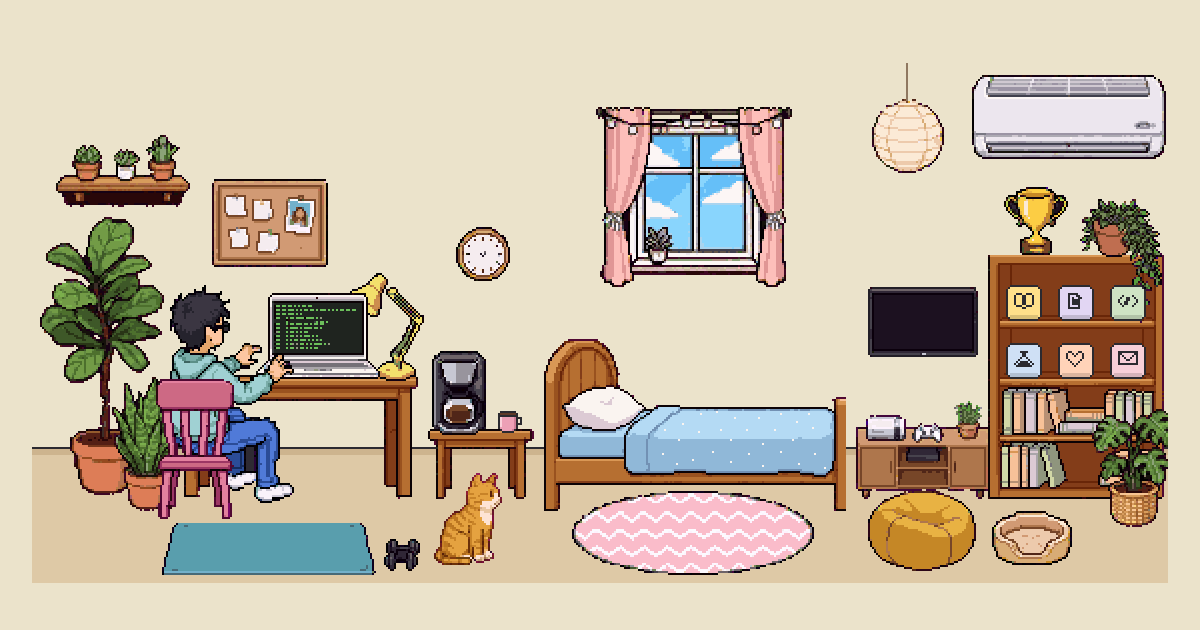
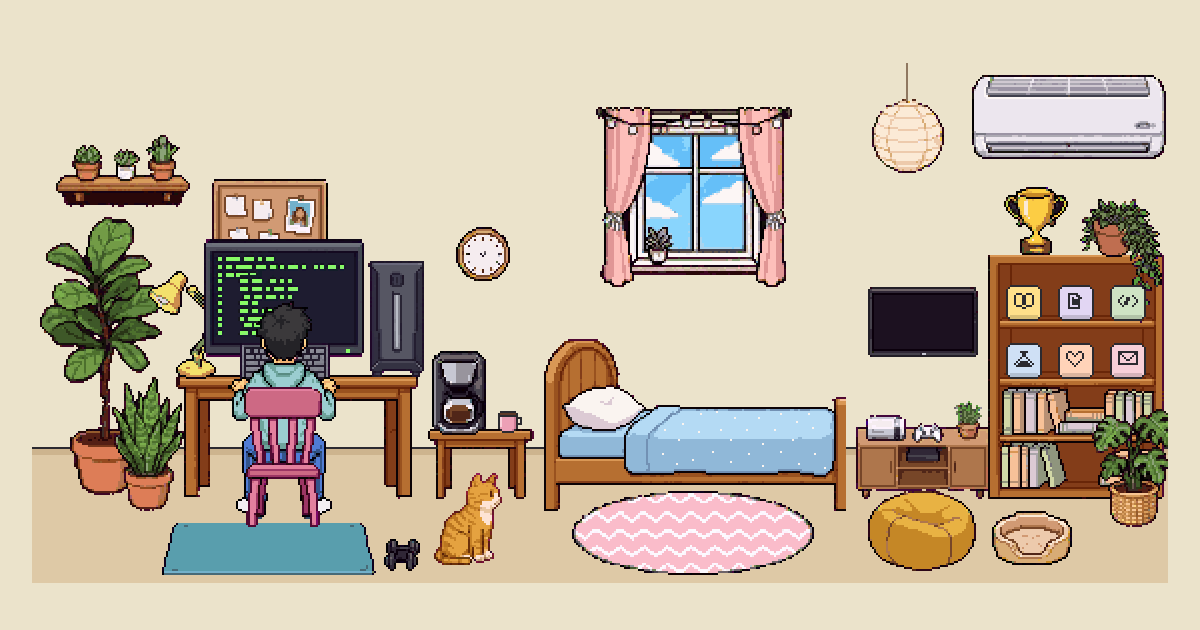
home: dev sits square at a full PC
He was twisted sideways against a chair seen from behind. Now he faces straight
into the desk with his back to us, at a big monitor with a PC tower and keyboard
in place of the laptop, with new clips for typing, turning to wave and getting
up. Phone layout rearranged around the bigger monitor.

Changed region(s): [[0.1233, 0.3619, 0.37, 0.8444]]

diff --git a/sites/home/public/game.js b/sites/home/public/game.js
@@ -99,7 +99,7 @@
     offs: {
       ac: [-464, -6], lantern: [-196, -8], window: [-278, 30], clock: [-96, 6], cork: [-80, 90], succs: [96, 86],
       shelf: [-298, 56], tv: [-322, 46], coffee: [-194, 46], desk: [-58, 178], fig: [200, 156], snake: [90, 167],
-      monstera: [-470, 64], bed: [-144, 238], bag: [-322, 58], catbed: [-326, 68], mat: [-58, 192]
+      monstera: [-392, 50], bed: [-144, 238], bag: [-268, 76], catbed: [-466, 238], mat: [-58, 192]
     }
   };
   let L = WIDE;
@@ -111,7 +111,7 @@
 
   // Lights: id, group, x, y, radius
   const LIGHTS = [
-    { id: 'desk', group: 'desk', x: 170, y: 126, r: 78, c: '255,206,130' },
+    { id: 'desk', group: 'desk', x: 72, y: 126, r: 78, c: '255,206,130' },
     { id: 'lantern', group: 'lantern', x: 438, y: 46, r: 100, c: '255,224,170' },
     { id: 'tv', group: 'tv', x: 445, y: 140, r: 64, c: '150,190,255' }
   ];
@@ -132,23 +132,24 @@
   };
   const CAT_SPOTS = {
     wide: [[40, 252], [220, 262], [400, 262], [520, 262]],
-    tall: [[210, 345], [60, 470], [244, 345], [150, 345]]
+    tall: [[230, 400], [60, 470], [150, 345], [70, 345]]
   };
 
-  // Every piece of furniture is its own sprite in room-flat.png: [x, y, w, h]
+  // Every piece of furniture is its own sprite in room-flat-b.png: [x, y, w, h]
   const KIT = {
     fig: [0, 0, 62, 139], shelf: [63, 0, 88, 122], window: [152, 0, 98, 90],
     bed: [251, 0, 151, 86], bedSleep: [0, 140, 151, 86], chair: [152, 140, 39, 70],
-    snake: [192, 140, 36, 67], desk: [229, 140, 121, 62], pothos: [351, 140, 41, 62],
-    monstera: [393, 140, 42, 59], lantern: [436, 140, 36, 55], lamp: [473, 140, 38, 54],
-    console: [0, 227, 68, 49], consolePlain: [69, 227, 68, 49], cork: [138, 227, 58, 44],
-    laptop: [197, 227, 62, 43], ac: [260, 227, 97, 42], rug: [358, 227, 121, 42],
-    coffee: [480, 227, 27, 42], bag: [0, 277, 54, 40], succs: [55, 277, 67, 36],
-    table: [123, 277, 53, 35], tv: [177, 277, 55, 35], trophy: [233, 277, 32, 34],
-    clock: [266, 277, 27, 27], catbed: [294, 277, 40, 27], mat: [335, 277, 108, 26],
-    icon0: [444, 277, 18, 18], icon1: [463, 277, 18, 18], icon2: [482, 277, 18, 18],
-    icon3: [0, 318, 18, 18], icon4: [19, 318, 18, 18], icon5: [38, 318, 18, 18],
-    dumbbells: [57, 318, 18, 16], mug: [76, 318, 14, 11]
+    monitor: [192, 140, 80, 70], snake: [273, 140, 36, 67], desk: [310, 140, 121, 62],
+    pothos: [432, 140, 41, 62], monstera: [0, 227, 42, 59], tower: [43, 227, 28, 58],
+    lantern: [72, 227, 36, 55], lamp: [109, 227, 38, 54], console: [148, 227, 68, 49],
+    consolePlain: [217, 227, 68, 49], cork: [286, 227, 58, 44], ac: [345, 227, 97, 42],
+    rug: [0, 287, 121, 42], coffee: [122, 287, 27, 42], bag: [150, 287, 54, 40],
+    succs: [205, 287, 67, 36], table: [273, 287, 53, 35], tv: [327, 287, 55, 35],
+    trophy: [383, 287, 32, 34], clock: [416, 287, 27, 27], catbed: [444, 287, 40, 27],
+    mat: [0, 330, 108, 26], keyboard: [109, 330, 45, 20], icon0: [155, 330, 18, 18],
+    icon1: [174, 330, 18, 18], icon2: [193, 330, 18, 18], icon3: [212, 330, 18, 18],
+    icon4: [231, 330, 18, 18], icon5: [250, 330, 18, 18], dumbbells: [269, 330, 18, 16],
+    mug: [288, 330, 14, 11]
   };
 
   // The room, placed by hand. x, y are in the wide room; the tall room is the same
@@ -169,8 +170,10 @@
     { id: 'fig', sprite: 'fig', group: 'fig', x: 4, y: 85, base: 224 },
     { id: 'snake', sprite: 'snake', group: 'snake', x: 40, y: 165, base: 232 },
     { id: 'desk', sprite: 'desk', group: 'desk', x: 72, y: 164, base: 226 },
-    { id: 'laptop', sprite: 'laptop', group: 'desk', x: 112, y: 123, base: 226.1 },
-    { id: 'lamp', sprite: 'lamp', group: 'desk', x: 158, y: 113, base: 226.1 },
+    { id: 'lamp', sprite: 'lamp', group: 'desk', x: 58, y: 112, base: 226.1 },
+    { id: 'monitor', sprite: 'monitor', group: 'desk', x: 86, y: 96, base: 226.2 },
+    { id: 'tower', sprite: 'tower', group: 'desk', x: 168, y: 107, base: 226.2 },
+    { id: 'keyboard', sprite: 'keyboard', group: 'desk', x: 104, y: 148, base: 226.3 },
     { id: 'table', sprite: 'table', group: 'coffee', x: 198, y: 191, base: 226 },
     { id: 'coffee', sprite: 'coffee', group: 'coffee', x: 200, y: 152, base: 226.1 },
     { id: 'mug', sprite: 'mug', group: 'coffee', x: 232, y: 182, base: 226.1 },
@@ -199,7 +202,7 @@
 
   // The chair is its own sprite: it slides out when he gets up and back when he sits
   const chair = { t: 0, to: 0, delay: 0 };
-  const chairOut = () => (L.tall ? [0, 8] : [-14, 6]);
+  const chairOut = () => [0, 8];
 
   function moveChair(to, delay) {
     chair.to = to;
@@ -216,7 +219,7 @@
   }
 
   function drawChair() {
-    const [x, y] = at('desk', 62, 166);
+    const [x, y] = at('desk', 106, 170);
     sprite('chair', x + Math.round(chairOut()[0] * chair.t), y + Math.round(chairOut()[1] * chair.t));
   }
 
@@ -233,14 +236,15 @@
   const THINGS = [
     { id: 'ac', label: 'air conditioner', group: 'ac', x: 470, y: 14, w: 97, h: 42, act: () => toggleAC() },
     { id: 'lantern', label: 'paper lantern', group: 'lantern', x: 420, y: 12, w: 36, h: 52, act: () => toggleLamp('lantern') },
-    { id: 'lamp', label: 'desk lamp', group: 'desk', x: 158, y: 113, w: 38, h: 54, act: () => toggleLamp('desk') },
+    { id: 'lamp', label: 'desk lamp', group: 'desk', x: 58, y: 112, w: 30, h: 52, act: () => toggleLamp('desk') },
     { id: 'window', label: 'window', group: 'window', x: 282, y: 30, w: 98, h: 90, act: () => sayDev(clockLine('it’s {t} here in Saigon')) },
     { id: 'clock', label: 'clock', group: 'clock', x: 212, y: 90, w: 27, h: 27, act: () => sayDev(clockLine('{t}. should I be sleeping?')) },
     { id: 'cork', label: 'cork board', group: 'cork', x: 90, y: 66, w: 58, h: 44, say: 'todo: fewer todos' },
     { id: 'succs', label: 'little succulents', group: 'succs', x: 12, y: 44, w: 67, h: 36, say: 'the only ones I never forget' },
     { id: 'fig', label: 'fig tree', group: 'fig', x: 4, y: 85, w: 62, h: 110, say: 'taller than my last app' },
     { id: 'snake', label: 'snake plant', group: 'snake', x: 40, y: 165, w: 36, h: 62, say: 'impossible to kill. tested.' },
-    { id: 'laptop', label: 'laptop', group: 'desk', x: 112, y: 123, w: 62, h: 43, say: 'no peeking, it’s full of bugs' },
+    { id: 'monitor', label: 'monitor', group: 'desk', x: 86, y: 96, w: 80, h: 70, say: 'no peeking, it’s full of bugs' },
+    { id: 'tower', label: 'PC', group: 'desk', x: 168, y: 107, w: 28, h: 58, say: 'louder than the cat' },
     { id: 'mug', label: 'mug', group: 'coffee', x: 232, y: 182, w: 14, h: 12, act: () => sayDev('coffee number ' + (3 + Math.floor(Math.random() * 3))) },
     { id: 'coffee', label: 'coffee machine', group: 'coffee', x: 200, y: 152, w: 27, h: 42, act: () => invite(() => visit(SPOTS.coffee), 'the real senior engineer') },
     { id: 'bed', label: 'bed', group: 'bed', x: 256, y: 146, w: 151, h: 86, act: () => invite(nap, 'not yet. one more commit.') },
@@ -629,9 +633,9 @@
   // 5. SPRITES AND ACTORS
   // --------------------------------------------------------------------------
   const SHEETS = {
-    type: ['dev-desk', 120, 120],
-    wave: ['dev-hello', 120, 120],
-    rise: ['dev-rise', 120, 156],
+    type: ['dev-back-desk', 120, 120],
+    wave: ['dev-turn', 120, 120],
+    rise: ['dev-up', 120, 156],
     stand: ['dev-stand', 120, 156],
     walk: ['dev-steps', 120, 156],
     sit: ['dev-sit', 120, 156],
@@ -736,7 +740,7 @@
   const dev = { state: 'code', bed: 0, bedTo: 0, x: 0, y: 0, flip: false, wait: 0, breakIn: 60, thought: 8, pokes: 0, pokedAt: 0 };
 
   function seat() {
-    return at('desk', 40, 82);
+    return at('desk', 66, 90);
   }
 
   function feetTo(spot) {
@@ -1045,7 +1049,7 @@
   // Everything that stands on the floor, drawn back to front
   function drawDepth() {
     const layers = [
-      { base: at('desk', 0, 236 + chairOut()[1] * chair.t)[1], draw: drawChair },
+      { base: at('desk', 0, 240 + chairOut()[1] * chair.t)[1], draw: drawChair },
       { base: devFeet(), draw: drawDev },
       { base: catInBed() ? at('catbed', 0, 260)[1] : cat.y + 51, draw: drawCat }
     ];
@@ -1358,7 +1362,7 @@
   function drawShadows() {
     ctx.fillStyle = 'rgba(82,54,32,0.2)';
     SHADOWS.forEach((v) => shadow(...v));
-    shadow('desk', 81 + chairOut()[0] * chair.t, 236 + chairOut()[1] * chair.t, 21, 3);
+    shadow('desk', 126, 240 + chairOut()[1] * chair.t, 21, 3);
     const on = (x, y, rx, ry) => {
       ctx.beginPath();
       ctx.ellipse(ox + x, oy + y, rx, ry, 0, 0, Math.PI * 2);
@@ -1421,7 +1425,7 @@
   toLoad = 3 + Object.keys(SHEETS).length;
   const fonts = ['400 18px "Pixelify Sans"', '600 18px "Pixelify Sans"'].map((f) =>
     (document.fonts ? document.fonts.load(f) : Promise.resolve()).catch(() => {}).then(loadStep));
-  const assets = fonts.concat([load('kit', 'room-flat')]);
+  const assets = fonts.concat([load('kit', 'room-flat-b')]);
   Object.keys(SHEETS).forEach((k) => assets.push(load(k, SHEETS[k][0])));
   const atLeast = new Promise((r) => setTimeout(r, 700));
   Promise.all(assets.concat(atLeast)).then(() => {

diff --git a/CLAUDE.md b/CLAUDE.md
@@ -19,7 +19,7 @@ repos (Bookmuse: `../bookmuse/`, read its `ROADMAP.md`; this repo's move is `spe
   (the `bookmuse_web` dashboard), not on the landing. The landing's Sign in buttons link straight to that dashboard.
 - Bookmuse's privacy policy and deletion page are linked from the apps, App Store Connect, Play Console, Google and Dropbox:
   when a Bookmuse feature changes what data is kept or sent, update en/vi/es together.
-- **Home's room** (`sites/home/public/`) is a pixel-art canvas game (`index.html`, `style.css`, `game.js`, no libraries): a room you click around in, on Vietnam time. It is a straight-on 2D view: every piece of furniture is a separate flat sprite in `public/assets/room/room-flat.png`, placed in `ROOM` in `game.js` and drawn back to front by where it meets the floor, and people walk on the open floor in front of it. Don't draw anything at an angle or split a sprite to fake depth. Wall, floor, sunlight, lamps and night are drawn in code. Wide and tall layouts move the same sprites by group. Assets are cached for 7 days, so give a replaced image a new name. `?hour=3` pins the clock for testing.
+- **Home's room** (`sites/home/public/`) is a pixel-art canvas game (`index.html`, `style.css`, `game.js`, no libraries): a room you click around in, on Vietnam time. It is a straight-on 2D view: every piece of furniture is a separate flat sprite in `public/assets/room/room-flat-b.png`, placed in `ROOM` in `game.js` and drawn back to front by where it meets the floor, and people walk on the open floor in front of it. Don't draw anything at an angle or split a sprite to fake depth. Wall, floor, sunlight, lamps and night are drawn in code. Wide and tall layouts move the same sprites by group. Assets are cached for 7 days, so give a replaced image a new name. `?hour=3` pins the clock for testing.
 - Run locally: `npm ci`, then `npm run dev:bookmuse` (http://localhost:8788) or `npm run dev:home` (http://localhost:8790).
 - **Deploy:** push a tag `<site>-vX.Y.Z` (`bookmuse-v1.0.0`, `home-v1.0.0`); `.github/workflows/deploy.yml` runs
   `wrangler deploy` for that site. Pushing to `main` never deploys. Never push a tag unless the owner asks.
